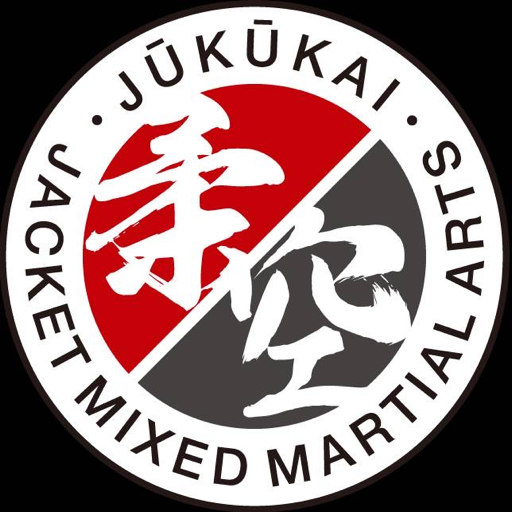
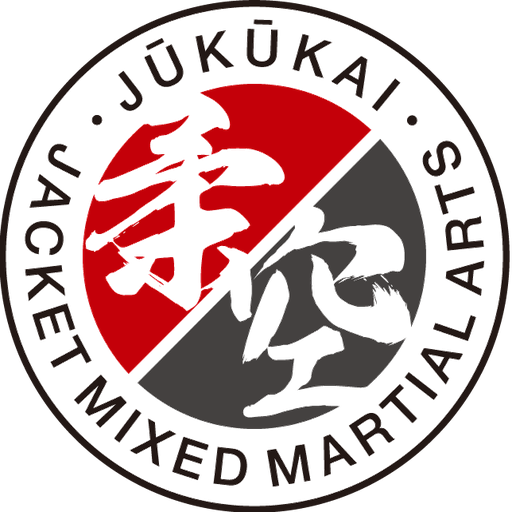
ファビコンを赤黒ロゴに変更（背景透過処理済み）

diff --git a/SPEC.md b/SPEC.md
@@ -2,7 +2,7 @@
 
 > **このドキュメントについて**
 > 開発の進捗に合わせて随時更新すること。新機能追加・仕様変更・廃止した機能は必ずこのドキュメントに反映する。
-> 最終更新: 2026-03-25（エントリーフォームの項目ラベル編集機能追加）
+> 最終更新: 2026-03-25（ファビコンを赤黒ロゴに変更）
 
 ---
 
